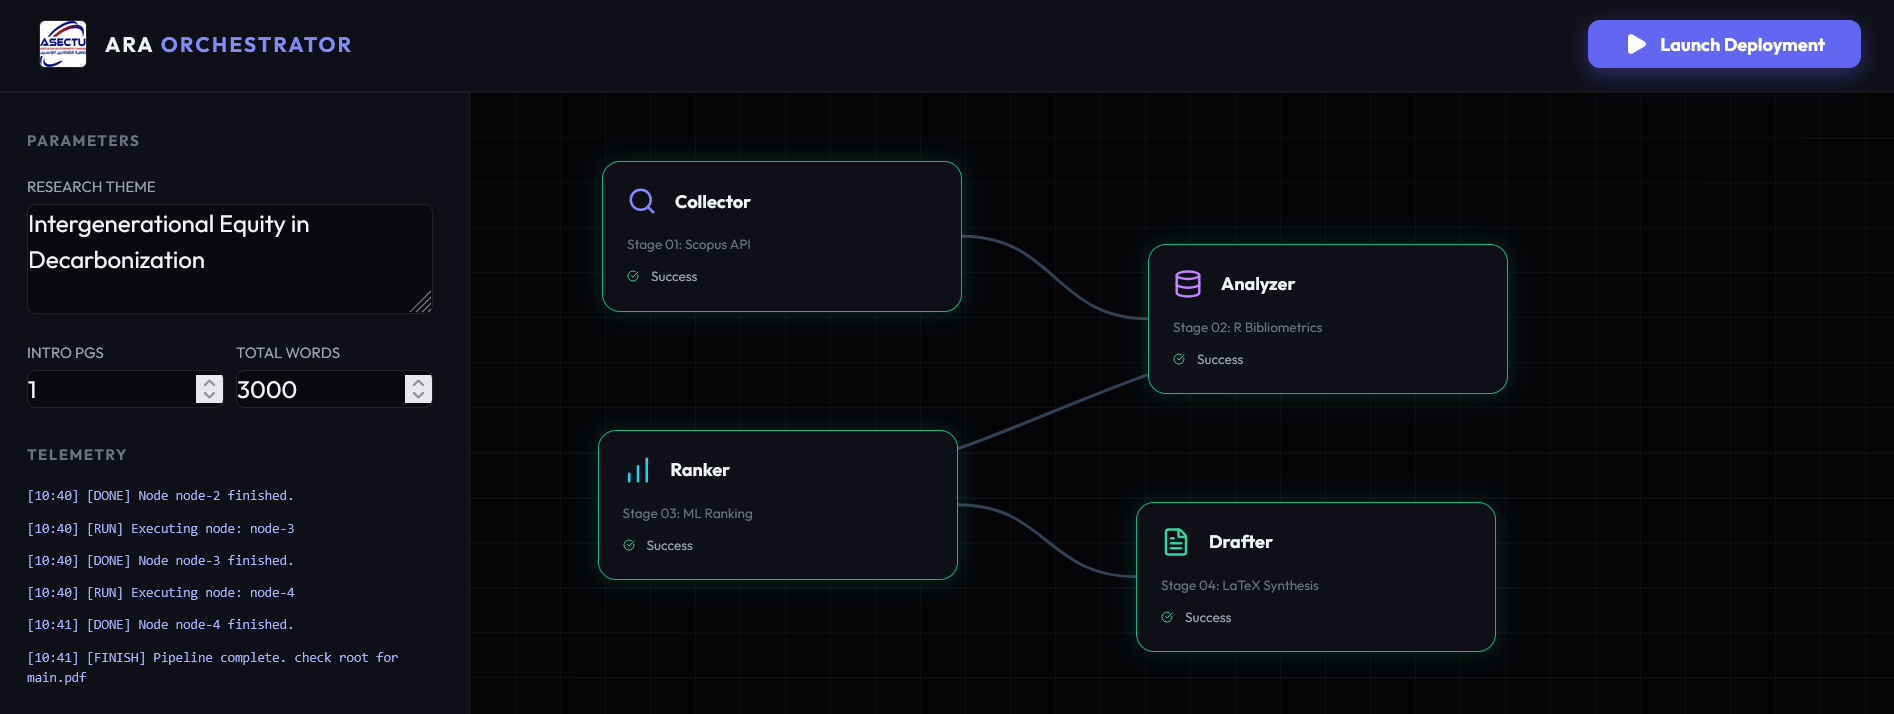
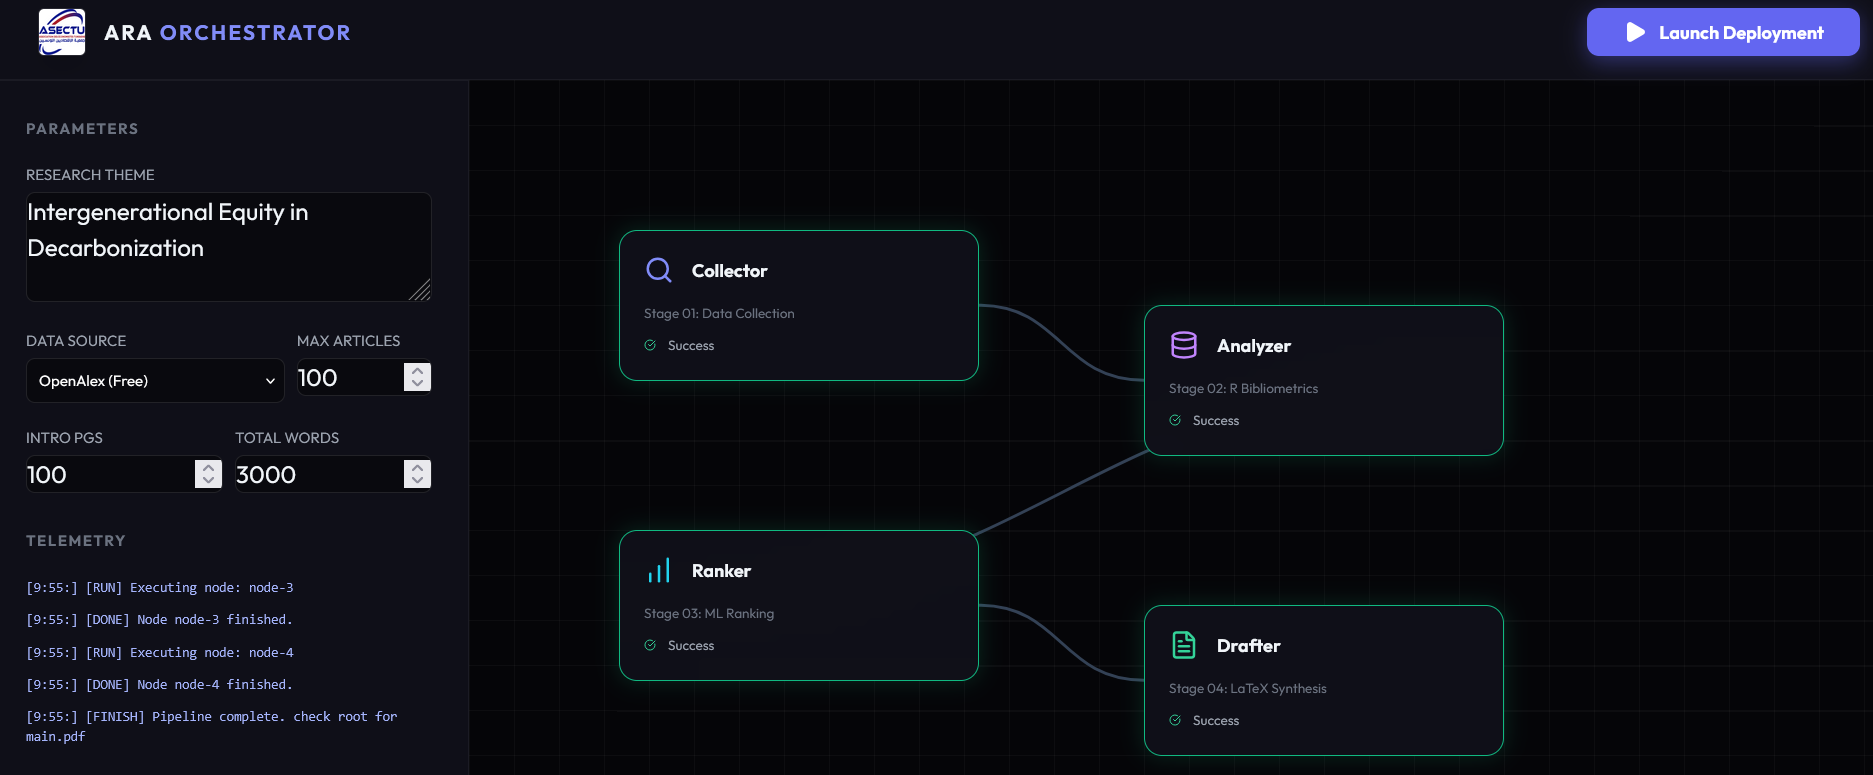
Add files via upload

diff --git a/index.html b/index.html
@@ -134,6 +134,20 @@
                         <textarea id="theme-input" rows="3">Intergenerational Equity in Decarbonization</textarea>
                     </div>
                     <div class="flex gap-2">
+                        <div class="flex-1">
+                            <label class="text-[10px] text-gray-400 block mb-1 uppercase">Data Source</label>
+                            <select id="source-input" class="bg-black/40 border border-white/10 rounded-md p-2 text-[10px] w-full text-white outline-none focus:border-indigo-500">
+                                <option value="scopus">Scopus (Elsevier)</option>
+                                <option value="openalex" selected>OpenAlex (Free)</option>
+                                <option value="both">Both (Merged)</option>
+                            </select>
+                        </div>
+                        <div class="w-1/3">
+                            <label class="text-[10px] text-gray-400 block mb-1 uppercase">Max Articles</label>
+                            <input type="number" id="count-input" value="50">
+                        </div>
+                    </div>
+                    <div class="flex gap-2">
                         <div>
                             <label class="text-[10px] text-gray-400 block mb-1 uppercase">Intro Pgs</label>
                             <input type="number" id="intro-input" value="1">
@@ -165,7 +179,7 @@
                         <i data-lucide="search" class="w-5 h-5 text-indigo-400"></i>
                         <span class="text-xs font-bold">Collector</span>
                     </div>
-                    <div class="text-[9px] text-gray-500 mb-2">Stage 01: Scopus API</div>
+                    <div class="text-[9px] text-gray-500 mb-2">Stage 01: Data Collection</div>
                     <div class="status flex items-center gap-2 text-[9px] text-gray-400">
                         <i data-lucide="circle" class="w-2 h-2"></i> Standby
                     </div>
@@ -289,6 +303,8 @@
             const theme = document.getElementById('theme-input').value;
             const intro = document.getElementById('intro-input').value;
             const words = document.getElementById('word-input').value;
+            const source = document.getElementById('source-input').value;
+            const count = document.getElementById('count-input').value;
 
             addLog(`[SYNC] Updating agent_config.json with theme: ${theme.slice(0, 20)}...`);
 
@@ -299,8 +315,11 @@
                     headers: {'Content-Type': 'application/json'},
                     body: JSON.stringify({
                         project_title: theme,
+                        theme_description: theme,
                         intro_word_count: parseInt(intro) * 200, // Pages to words conversion
-                        review_word_count: parseInt(words)
+                        review_word_count: parseInt(words),
+                        data_source: source,
+                        article_count: parseInt(count)
                     })
                 });
 

diff --git a/server.py b/server.py
@@ -70,7 +70,7 @@ class OrchestratorHandler(http.server.BaseHTTPRequestHandler):
         elif self.path == '/api/run':
             node_id = data.get('node_id')
             script_map = {
-                'node-1': 'core/scopus_collector.py',
+                'node-1': 'core/orchestrate_collection.py',
                 'node-2': 'core/analysis_engine.R',
                 'node-3': 'core/paper_ranker.py',
                 'node-4': 'core/review_drafter.py'
